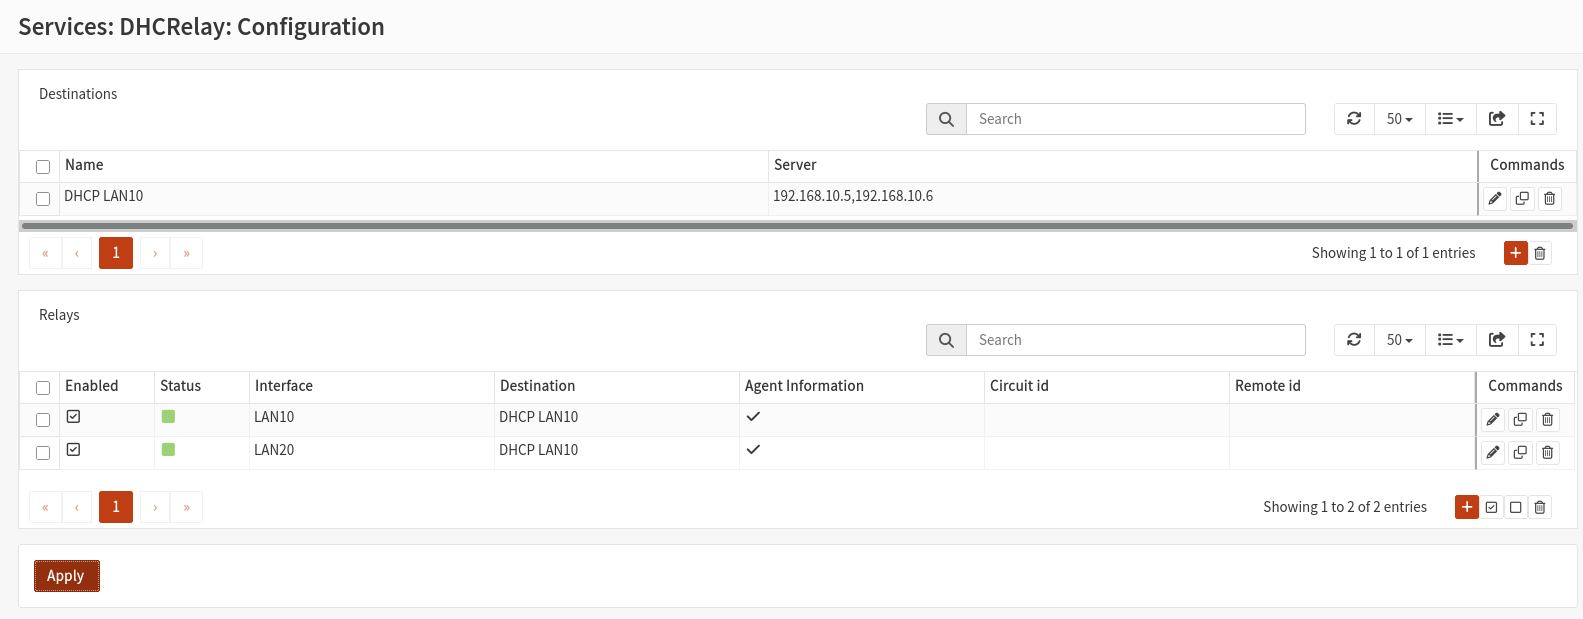
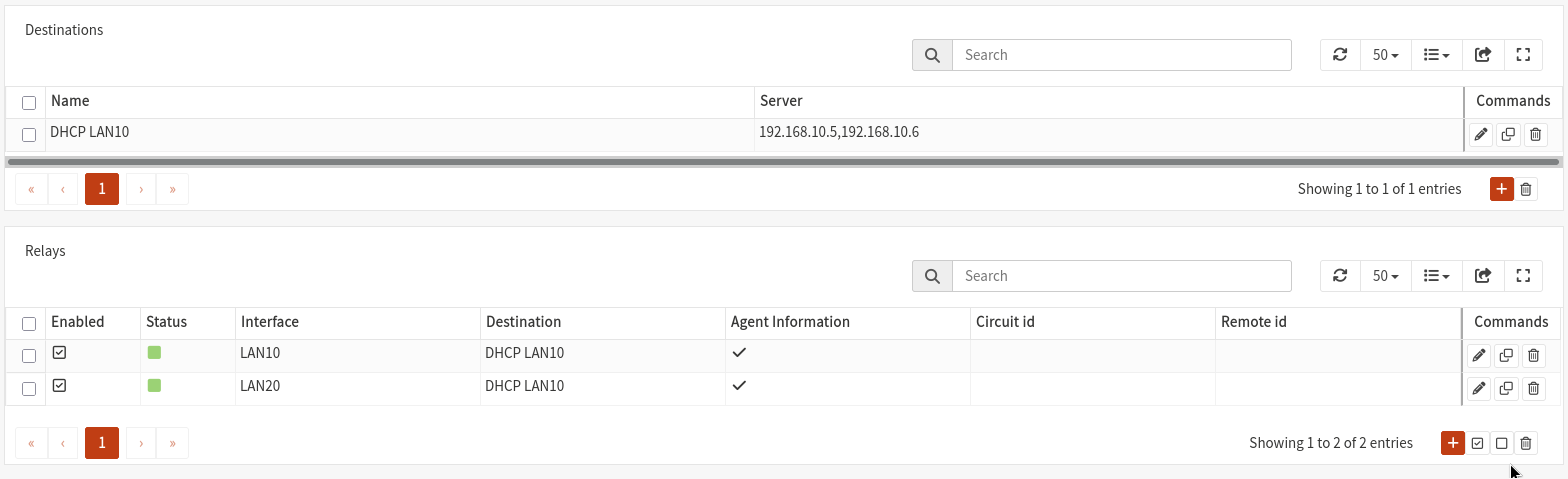
update

diff --git a/Lab/dhcp-ddns/README.md b/Lab/dhcp-ddns/README.md
@@ -776,9 +776,17 @@ serie de test
 
 dhcp primary seul pour attribution ip
 
+![dhcp-alone](./illustration/dhcp-alone.png)
+
 dhcp en ha pour replication fichier lease
 
+![dhcp-ha](./illustration/dhcp-ha.png)
+
 dhcp 1 off pour voir si dhcp 2 attribue une ip
+
+![dhcp-sync-1](./illustration/dhcp-sync-1.png)
+
+![dhcp-sync-2](./illustration/dhcp-sync-2.png)
 
 ### DNS
 
